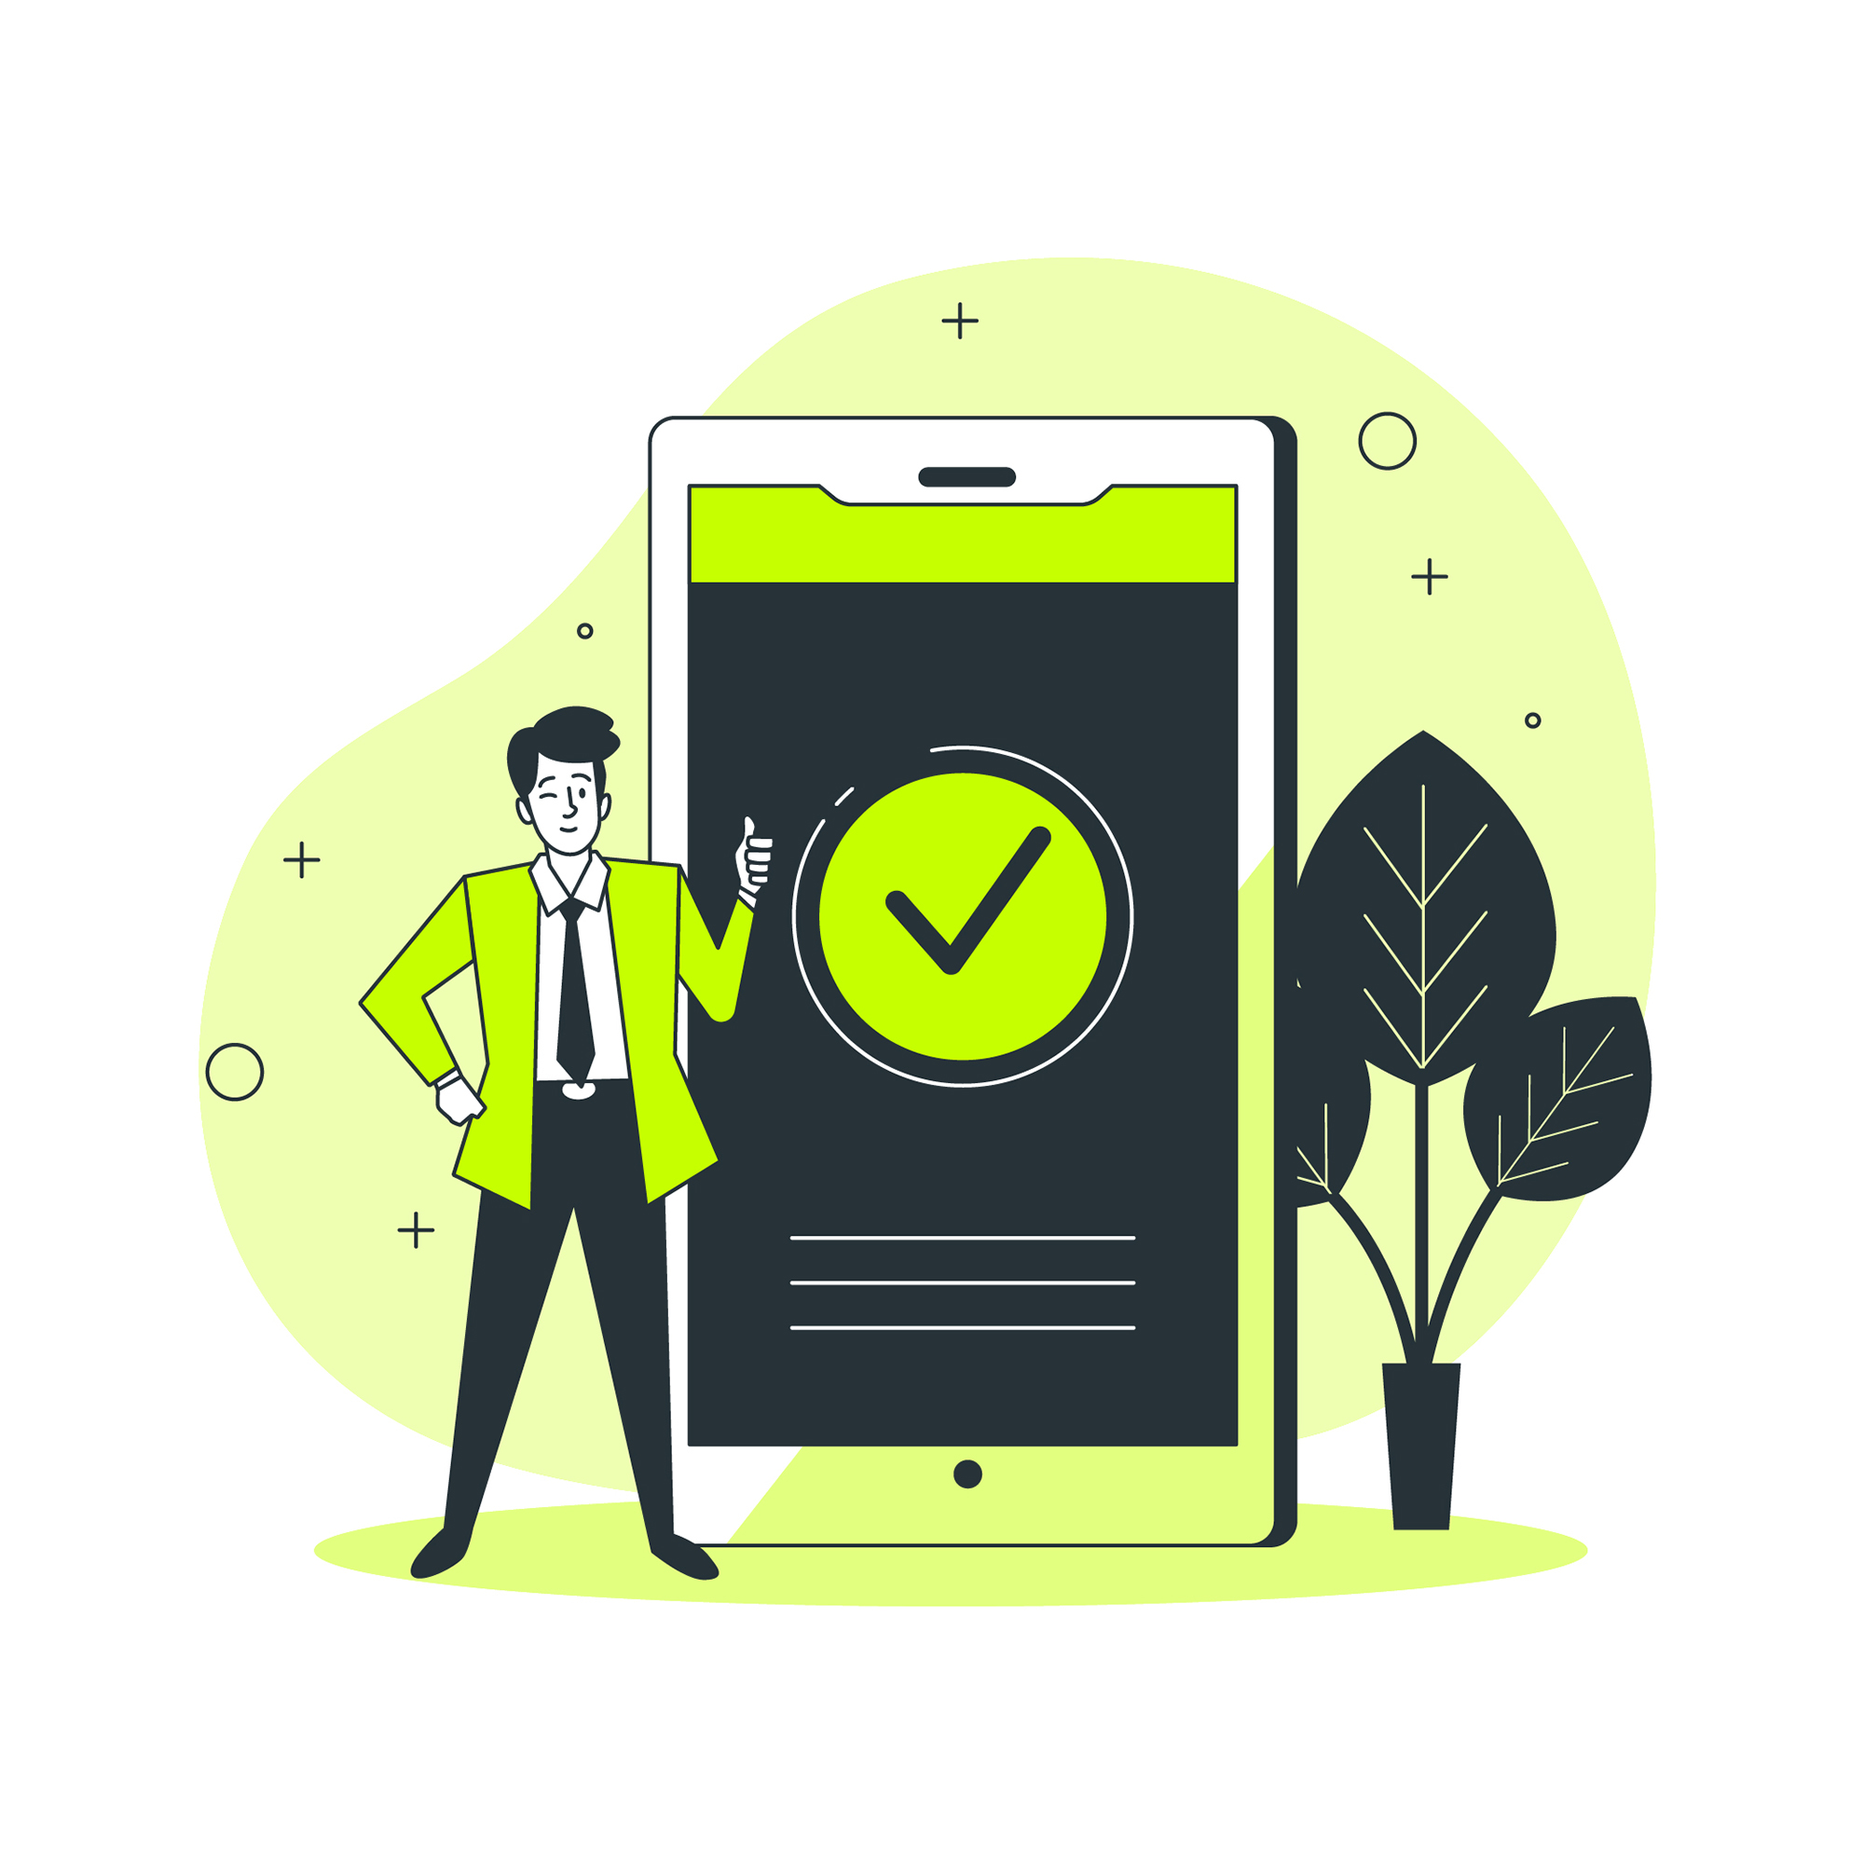
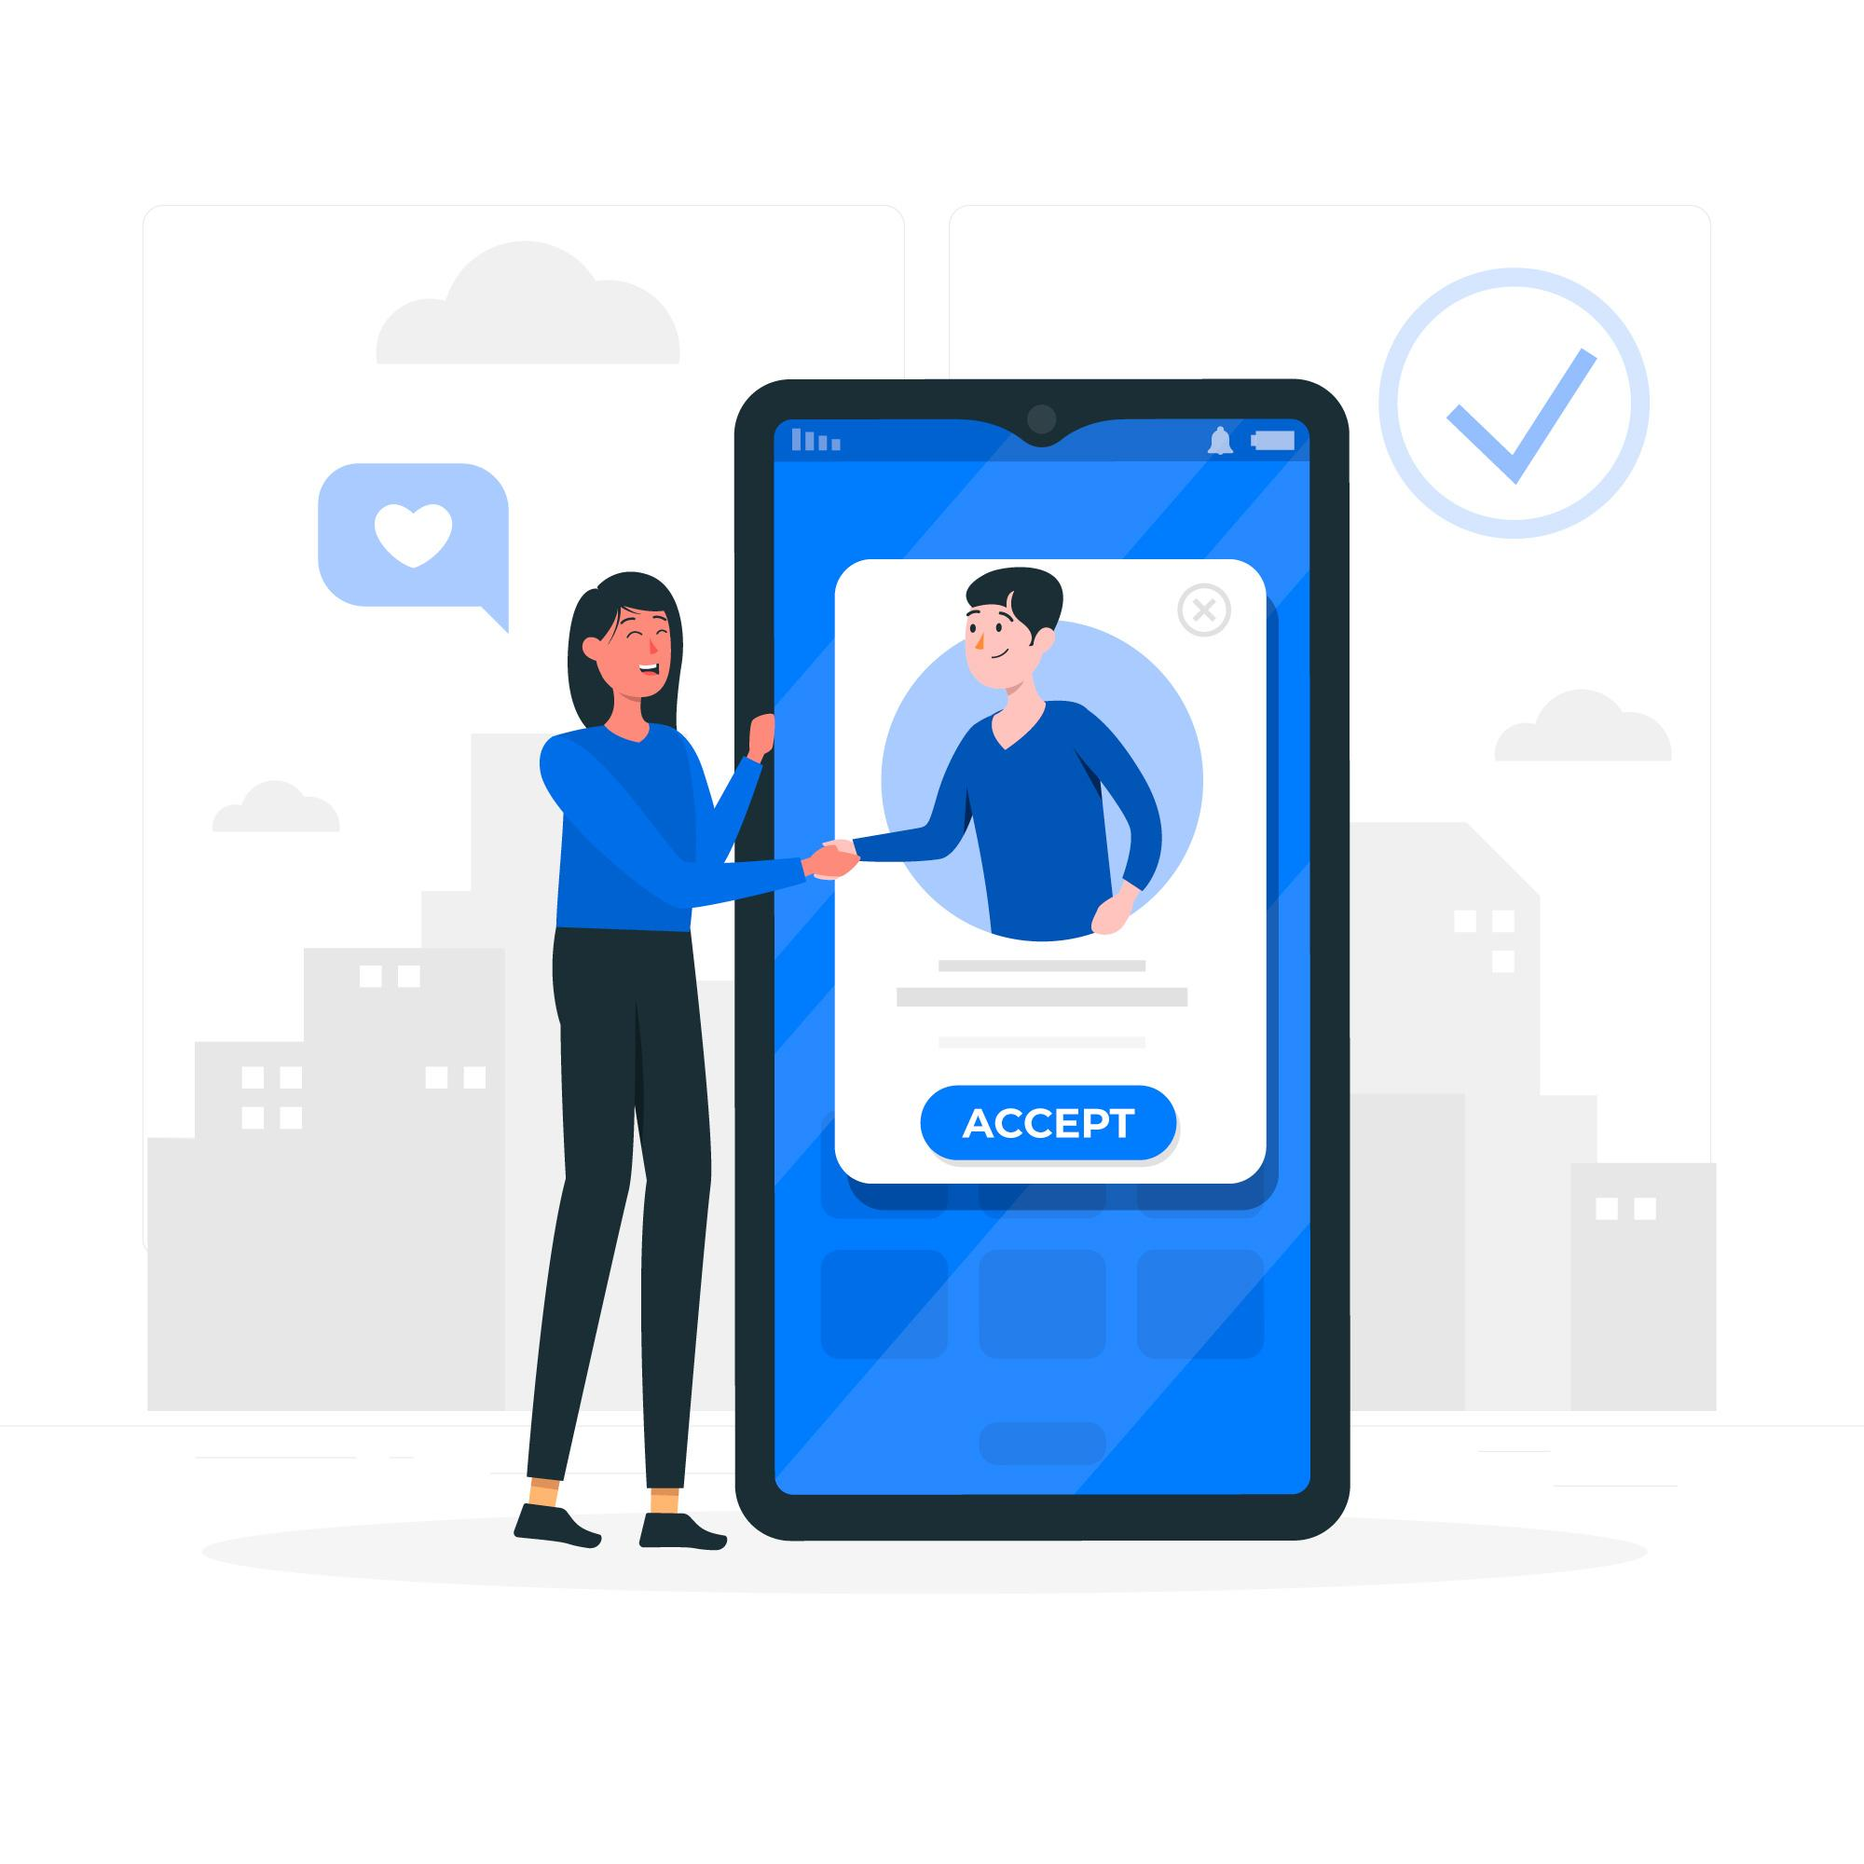
integrate login api.

diff --git a/lib/core/service/api_client.dart b/lib/core/service/api_client.dart
@@ -32,79 +32,87 @@ class ApiClient {
 
   ApiClient(String initialBaseUrl) {
     _baseUrl = initialBaseUrl;
-    _dio = Dio(BaseOptions(
-      baseUrl: _baseUrl,
-      headers: {
-        'Content-Type': 'application/json',
-        'Accept': 'application/json',
-      },
-      connectTimeout: Duration(seconds: 45),
-      receiveTimeout: Duration(seconds: 45),
-    ));
+    _dio = Dio(
+      BaseOptions(
+        baseUrl: _baseUrl,
+        // headers: {
+        //   'Content-Type': 'application/json',
+        //   'Accept': 'application/json',
+        // },
+        connectTimeout: Duration(seconds: 45),
+        receiveTimeout: Duration(seconds: 45),
+      ),
+    );
 
-    _dio.interceptors.add(InterceptorsWrapper(
-      onRequest: (options, handler) {
-        final token = storageUtils.getToken();
-        if (token != null) {
-          options.headers['Authorization'] = token;
-        }
-
-        if (kDebugMode) {
-          logger.i('Request: ${options.method} ${options.uri}');
-          if (options.headers.isNotEmpty) {
-            logger.d('Headers: ${jsonEncode(options.headers)}');
+    _dio.interceptors.add(
+      InterceptorsWrapper(
+        onRequest: (options, handler) {
+          final token = storageUtils.getToken();
+          if (token != null) {
+            options.headers['Authorization'] = token;
           }
-          if (options.queryParameters.isNotEmpty) {
-            logger.d('Query Parameters: ${options.queryParameters}');
+
+          if (kDebugMode) {
+            logger.i('Request: ${options.method} ${options.uri}');
+            if (options.headers.isNotEmpty) {
+              logger.d('Headers: ${jsonEncode(options.headers)}');
+            }
+            if (options.queryParameters.isNotEmpty) {
+              logger.d('Query Parameters: ${options.queryParameters}');
+            }
+            if (options.data != null) {
+              logger.d('Request Body: ${options.data}');
+            }
           }
-          if (options.data != null) {
-            logger.d('Request Body: ${options.data}');
+
+          return handler.next(options);
+        },
+        onResponse: (response, handler) {
+          if (kDebugMode) {
+            logger.w('Response: ${jsonEncode(response.data)}');
           }
-        }
+          return handler.next(response);
+        },
+        onError: (DioException error, handler) {
+          final apiName = error.requestOptions.uri.toString();
 
-        return handler.next(options);
-      },
-      onResponse: (response, handler) {
-        if (kDebugMode) {
-          logger.w('Response: ${jsonEncode(response.data)}');
-        }
-        return handler.next(response);
-      },
-      onError: (DioException error, handler) {
-        final apiName = error.requestOptions.uri.toString();
+          if (error.response != null) {
+            final statusCode = error.response?.statusCode;
+            final errorData = error.response?.data;
 
-        if (error.response != null) {
-          final statusCode = error.response?.statusCode;
-          final errorData = error.response?.data;
+            logger.e('[ERROR] API: $apiName - ${jsonEncode(errorData)}');
 
-          logger.e('[ERROR] API: $apiName - ${jsonEncode(errorData)}');
-
-          switch (statusCode) {
-            case 401:
-            case 403:
-              _handleInvalidToken(errorData['message'].toString());
-              break;
-            case 440:
-              _handleSessionExpired();
-              break;
-            case 500:
-              AppUtils.showSnackBar(errorData['message'].toString());
-              break;
-            default:
-              logger.e('Unhandled status code: $statusCode');
-              break;
+            switch (statusCode) {
+              case 401:
+              case 403:
+                _handleInvalidToken(errorData['message'].toString());
+                break;
+              case 440:
+                _handleSessionExpired();
+                break;
+              case 500:
+                AppUtils.showSnackBar(errorData['message'].toString());
+                break;
+              default:
+                logger.e('Unhandled status code: $statusCode');
+                break;
+            }
           }
-        }
 
-        if (error.type == DioExceptionType.connectionError) {
-          logger.e('[ERROR] Network error: Please check your internet connection.');
-        } else if (error.type == DioExceptionType.connectionTimeout) {
-          logger.e('[ERROR] API: $apiName - Connection Timeout');
-        }
+          print(error.response);
+          print("statusCode");
+          if (error.type == DioExceptionType.connectionError) {
+            logger.e(
+              '[ERROR] Network error: Please check your internet connection.',
+            );
+          } else if (error.type == DioExceptionType.connectionTimeout) {
+            logger.e('[ERROR] API: $apiName - Connection Timeout');
+          }
 
-        return handler.next(error);
-      },
-    ));
+          return handler.next(error);
+        },
+      ),
+    );
   }
 
   void updateBaseUrl(String baseUrl) {
@@ -149,7 +157,8 @@ class ApiClient {
           content: Container(
             padding: const EdgeInsets.symmetric(horizontal: 10.0),
             child: Text(
-              message ?? 'Your session is no longer valid. Please log in again.',
+              message ??
+                  'Your session is no longer valid. Please log in again.',
               style: TextStyles.medium(Get.context!),
             ),
           ),

diff --git a/lib/core/service/api_service.dart b/lib/core/service/api_service.dart
@@ -7,9 +7,15 @@ class ApiService {
   final _apiClient = GetIt.I<ApiClient>(); // Access shared AuthService
 
   // Example GET request
-  Future<Response> getData(String endpoint, {Map<String, dynamic>? queryParams}) async {
+  Future<Response> getData(
+    String endpoint, {
+    Map<String, dynamic>? queryParams,
+  }) async {
     try {
-      Response response = await _apiClient.client.get(endpoint, queryParameters: queryParams);
+      Response response = await _apiClient.client.get(
+        endpoint,
+        queryParameters: queryParams,
+      );
       return response;
     } catch (e) {
       rethrow;
@@ -17,9 +23,17 @@ class ApiService {
   }
 
   /// POST request
-  Future<Response> postData(String endpoint, {dynamic data, Map<String, dynamic>? queryParams}) async {
+  Future<Response> postData(
+    String endpoint, {
+    dynamic data,
+    Map<String, dynamic>? queryParams,
+  }) async {
     try {
-      final response = await _apiClient.client.post(endpoint, data: data, queryParameters: queryParams);
+      final response = await _apiClient.client.post(
+        endpoint,
+        data: data,
+        queryParameters: queryParams,
+      );
       return response;
     } catch (e) {
       print('Error in POST request: $e');
@@ -28,19 +42,17 @@ class ApiService {
   }
 
   Future<Response> postDataFullUrl(
-      String fullUrl, {
-        dynamic data,
-        Map<String, dynamic>? queryParams,
-        Map<String, String>? headers,
-      }) async {
+    String fullUrl, {
+    dynamic data,
+    Map<String, dynamic>? queryParams,
+    Map<String, String>? headers,
+  }) async {
     try {
       final response = await _apiClient.client.post(
         fullUrl,
         data: data,
         queryParameters: queryParams,
-        options: Options(
-          headers: headers,
-        ),
+        options: Options(headers: headers),
       );
       return response;
     } catch (e) {
@@ -50,9 +62,17 @@ class ApiService {
   }
 
   /// PUT request
-  Future<Response> putData(String endpoint, {dynamic data, Map<String, dynamic>? queryParams}) async {
+  Future<Response> putData(
+    String endpoint, {
+    dynamic data,
+    Map<String, dynamic>? queryParams,
+  }) async {
     try {
-      final response = await _apiClient.client.put(endpoint, data: data, queryParameters: queryParams);
+      final response = await _apiClient.client.put(
+        endpoint,
+        data: data,
+        queryParameters: queryParams,
+      );
       return response;
     } catch (e) {
       print('Error in PUT request: $e');
@@ -60,11 +80,16 @@ class ApiService {
     }
   }
 
-
   /// DELETE request
-  Future<Response> deleteData(String endpoint, {Map<String, dynamic>? queryParams}) async {
+  Future<Response> deleteData(
+    String endpoint, {
+    Map<String, dynamic>? queryParams,
+  }) async {
     try {
-      Response response = await _apiClient.client.delete(endpoint, queryParameters: queryParams);
+      Response response = await _apiClient.client.delete(
+        endpoint,
+        queryParameters: queryParams,
+      );
       return response;
     } catch (e) {
       rethrow;
@@ -73,16 +98,18 @@ class ApiService {
 
   /// Multipart (File Upload) request
   Future<Map<String, dynamic>> uploadFile(
-      String endpoint, {
-        required File file,
-        String? fileKey = 'file', // The key to use for the file field
-        Map<String, dynamic>?
-        additionalData, // Any additional data to send with the file
-      }) async {
+    String endpoint, {
+    required File file,
+    String? fileKey = 'file', // The key to use for the file field
+    Map<String, dynamic>?
+    additionalData, // Any additional data to send with the file
+  }) async {
     try {
       FormData formData = FormData.fromMap({
-        fileKey!: await MultipartFile.fromFile(file.path,
-            filename: file.path.split('/').last),
+        fileKey!: await MultipartFile.fromFile(
+          file.path,
+          filename: file.path.split('/').last,
+        ),
         if (additionalData != null) ...additionalData,
         // Include additional data if provided
       });

diff --git a/lib/features/auth/controller/login_controller.dart b/lib/features/auth/controller/login_controller.dart
@@ -1,8 +1,12 @@
 import 'package:get/get.dart';
 import 'package:flutter/material.dart';
+import 'package:get_it/get_it.dart';
+import 'package:suraj_approval/core/constants/api_url.dart';
 import 'package:suraj_approval/core/router/app_router.dart';
+import 'package:suraj_approval/core/service/api_service.dart';
 import 'package:suraj_approval/core/theme/app_colors.dart';
 import 'package:suraj_approval/core/utills/app_utills.dart';
+import 'package:suraj_approval/features/dashboard/controller/session_controller.dart';
 
 class LoginController extends GetxController {
   final TextEditingController userIdController = TextEditingController();
@@ -12,6 +16,7 @@ class LoginController extends GetxController {
   final RxBool isLoading = false.obs;
   final RxBool isPasswordVisible = false.obs;
   final RxString errorMessage = ''.obs;
+  final _apiService = ApiService();
 
   void togglePasswordVisibility() {
     isPasswordVisible.value = !isPasswordVisible.value;
@@ -24,22 +29,27 @@ class LoginController extends GetxController {
     errorMessage.value = '';
 
     try {
-      // Simulate API call
-      await Future.delayed(const Duration(seconds: 2));
-
-      // Mock validation
-      if (userIdController.text == 'admin' &&
-          passwordController.text == 'password') {
+      final response = await _apiService.getData(
+        ApiUrl.loginApi,
+        queryParams: {
+          'mUser': userIdController.text.trim(),
+          'mPasswords': passwordController.text.trim(),
+        },
+      );
+      print("object:$response");
+      if (isClosed) return;
+      final data = response.data;
+      if (data['success'] == 'YES') {
         AppUtils.showSnackBar(
           'Login successful!',
           title: 'Success',
           background: AppColors.primaryColor,
           position: SnackPosition.BOTTOM,
         );
-        // Navigate to dashboard
+        GetIt.I<SessionController>().startSessionTimer();
         Get.offAllNamed(AppRouter.dashboardScreen);
       } else {
-        errorMessage.value = 'Invalid credentials. Please try again.';
+        errorMessage.value = 'Ivalid credentials. Please try again.';
       }
     } catch (e) {
       errorMessage.value = 'Login failed. Please try again.';
@@ -62,8 +72,8 @@ class LoginController extends GetxController {
     if (value == null || value.isEmpty) {
       return 'Please enter your password';
     }
-    if (value.length < 6) {
-      return 'Password must be at least 6 characters';
+    if (value.length < 3) {
+      return 'Password must be at least 3 characters';
     }
     return null;
   }

diff --git a/lib/core/constants/api_url.dart b/lib/core/constants/api_url.dart
@@ -1,5 +1,7 @@
 class ApiUrl {
-  static const String baseUrl = 'https://mocki.io/v1/8cc369c8-39f0-407e-b3ce-f618a353eb74';
+  static const String baseUrl =
+      'https://mocki.io/v1/8cc369c8-39f0-407e-b3ce-f618a353eb74';
+  static const String baseUrl2 = 'http://124.123.122.112:7081/Report';
 
-  static const String loginApi = '$baseUrl/postLoginDemo';
+  static const String loginApi = '/Login';
 }

diff --git a/lib/main.dart b/lib/main.dart
@@ -12,7 +12,7 @@ import 'features/dashboard/controller/sidebarx_controller.dart';
 
 Future<void> main() async {
   WidgetsFlutterBinding.ensureInitialized();
-  setupDependencies(baseUrl: ApiUrl.baseUrl);
+  setupDependencies(baseUrl: ApiUrl.baseUrl2);
   await LocalDB.init();
   runApp(const MyApp());
 }
